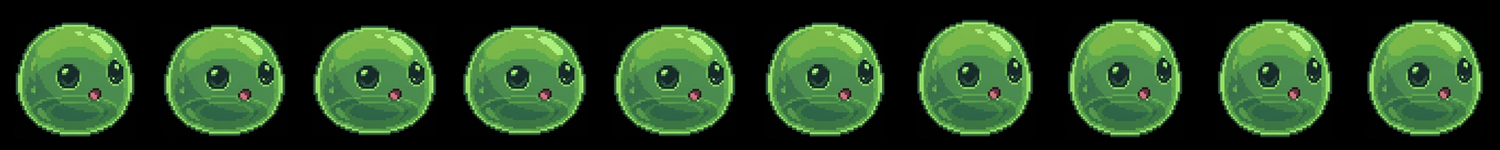
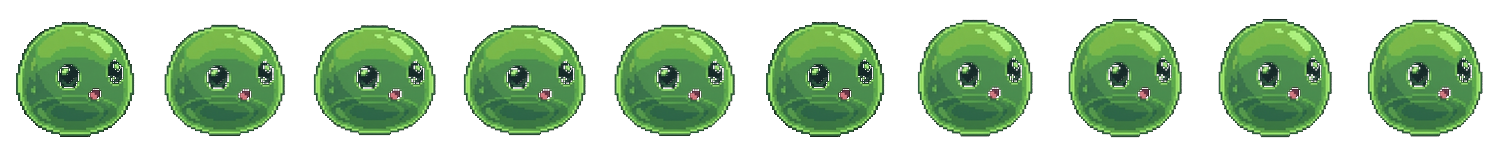
fix: bake transparency into slime sprite PNGs — no runtime pixel stripping
Rebuilt sprite sheets with RGBA transparency in the build script itself.
Black pixels are converted to transparent at build time, not runtime.
Removes getImageData dependency that crashed on file:// protocol.

diff --git a/ethera/src/slime.js b/ethera/src/slime.js
@@ -15,9 +15,7 @@ function _slimeMaxHP() {
 const slimeTintedSprites = {};
 
 function buildSlimeTintedSprites() {
-    // Cache PVGames directional slime sprites with black background removed.
-    // The AI-generated sprites have pure black backgrounds — we convert dark
-    // pixels to transparent at load time so the slime composites normally.
+    // Cache PVGames directional slime sprites (transparency baked into PNGs).
     for (const anim of ['idle', 'walk']) {
         for (const dir of DIR8_NAMES) {
             const key = `pv_slime_${anim}_${dir}`;
@@ -28,24 +26,6 @@ function buildSlimeTintedSprites() {
             offCanvas.height = src.height;
             const offCtx = offCanvas.getContext('2d');
             offCtx.drawImage(src, 0, 0);
-            // Strip black background — make pixels with low brightness transparent
-            // Wrapped in try/catch: getImageData throws on tainted canvases (file:// protocol)
-            try {
-                const imgData = offCtx.getImageData(0, 0, offCanvas.width, offCanvas.height);
-                const px = imgData.data;
-                for (let p = 0; p < px.length; p += 4) {
-                    const brightness = px[p] + px[p + 1] + px[p + 2];
-                    if (brightness < 45) {
-                        px[p + 3] = 0;
-                    } else if (brightness < 90) {
-                        px[p + 3] = Math.min(255, Math.round((brightness - 45) * (255 / 45)));
-                    }
-                }
-                offCtx.putImageData(imgData, 0, 0);
-            } catch (e) {
-                // file:// or cross-origin — can't strip bg, sprite will show with black bg
-                // (still better than crashing)
-            }
             slimeTintedSprites[key] = offCanvas;
         }
     }

diff --git a/build_slime_sprites.py b/build_slime_sprites.py
@@ -80,12 +80,26 @@ def extract_slime_from_cell(img, row, col, cell_w, cell_h):
     new_h = max(1, int(blob_h * scale))
     scaled = cropped.resize((new_w, new_h), Image.LANCZOS)
 
-    # Center on a FRAME_W x FRAME_H black canvas
+    # Center on a FRAME_W x FRAME_H transparent canvas
     # Position slightly lower to leave room for bounce animation
-    canvas = Image.new('RGB', (FRAME_W, FRAME_H), (0, 0, 0))
+    canvas = Image.new('RGBA', (FRAME_W, FRAME_H), (0, 0, 0, 0))
     offset_x = (FRAME_W - new_w) // 2
     offset_y = (FRAME_H - new_h) // 2 + 5  # slight downward offset
-    canvas.paste(scaled, (offset_x, offset_y))
+
+    # Convert scaled image to RGBA and strip black background
+    scaled_rgba = scaled.convert('RGBA')
+    px = scaled_rgba.load()
+    for y in range(scaled_rgba.height):
+        for x in range(scaled_rgba.width):
+            r, g, b, a = px[x, y]
+            brightness = r + g + b
+            if brightness < 45:
+                px[x, y] = (0, 0, 0, 0)  # near-black → transparent
+            elif brightness < 90:
+                # Dark fringe → partial alpha for smooth edges
+                px[x, y] = (r, g, b, min(255, int((brightness - 45) * (255 / 45))))
+
+    canvas.paste(scaled_rgba, (offset_x, offset_y), scaled_rgba)
 
     return canvas
 
@@ -97,43 +111,36 @@ def build_animation_strip(base_frame, anim_type):
     idle: gentle breathing squash/stretch cycle
     walk: bouncier movement with more pronounced squash
     """
-    strip = Image.new('RGB', (FRAME_W * NUM_FRAMES, FRAME_H), (0, 0, 0))
+    strip = Image.new('RGBA', (FRAME_W * NUM_FRAMES, FRAME_H), (0, 0, 0, 0))
 
     for i in range(NUM_FRAMES):
         t = i / NUM_FRAMES  # 0.0 to 0.9
         angle = t * 2 * math.pi  # full cycle
 
         if anim_type == 'idle':
-            # Gentle breathing: subtle squash/stretch
-            sx = 1.0 + math.sin(angle) * 0.04  # 0.96x to 1.04x width
-            sy = 1.0 - math.sin(angle) * 0.04  # inverse: tall when narrow
-            offset_y = math.sin(angle) * 2  # subtle vertical bob
+            sx = 1.0 + math.sin(angle) * 0.04
+            sy = 1.0 - math.sin(angle) * 0.04
+            offset_y = math.sin(angle) * 2
         else:  # walk
-            # Bouncier: more pronounced squash/stretch + vertical bounce
-            sx = 1.0 + math.sin(angle) * 0.07  # 0.93x to 1.07x width
+            sx = 1.0 + math.sin(angle) * 0.07
             sy = 1.0 - math.sin(angle) * 0.07
-            offset_y = -abs(math.sin(angle)) * 6  # bouncing upward
+            offset_y = -abs(math.sin(angle)) * 6
 
-        # Apply transform
         new_w = max(1, int(FRAME_W * sx))
         new_h = max(1, int(FRAME_H * sy))
 
-        # Resize the base frame
         transformed = base_frame.resize((new_w, new_h), Image.LANCZOS)
 
-        # Create frame canvas and center the transformed image
-        frame = Image.new('RGB', (FRAME_W, FRAME_H), (0, 0, 0))
+        frame = Image.new('RGBA', (FRAME_W, FRAME_H), (0, 0, 0, 0))
         paste_x = (FRAME_W - new_w) // 2
         paste_y = (FRAME_H - new_h) // 2 + int(offset_y)
 
-        # Clamp paste position
         paste_x = max(-new_w + 1, min(FRAME_W - 1, paste_x))
         paste_y = max(-new_h + 1, min(FRAME_H - 1, paste_y))
 
-        frame.paste(transformed, (paste_x, paste_y))
+        frame.paste(transformed, (paste_x, paste_y), transformed)
 
-        # Paste into strip
-        strip.paste(frame, (i * FRAME_W, 0))
+        strip.paste(frame, (i * FRAME_W, 0), frame)
 
     return strip
 
